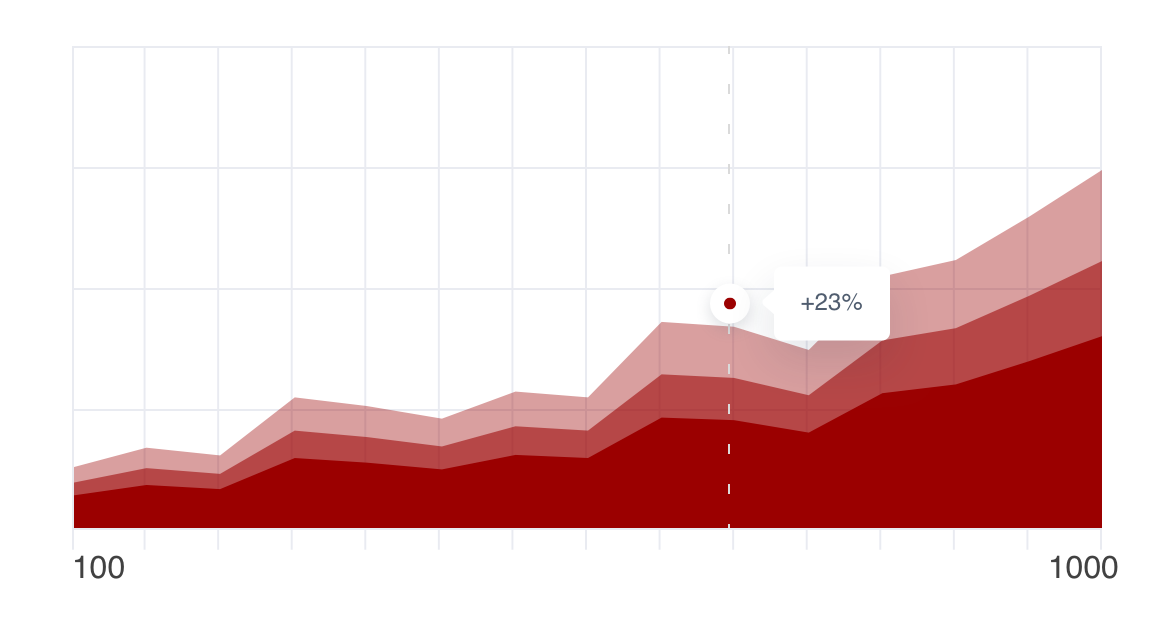
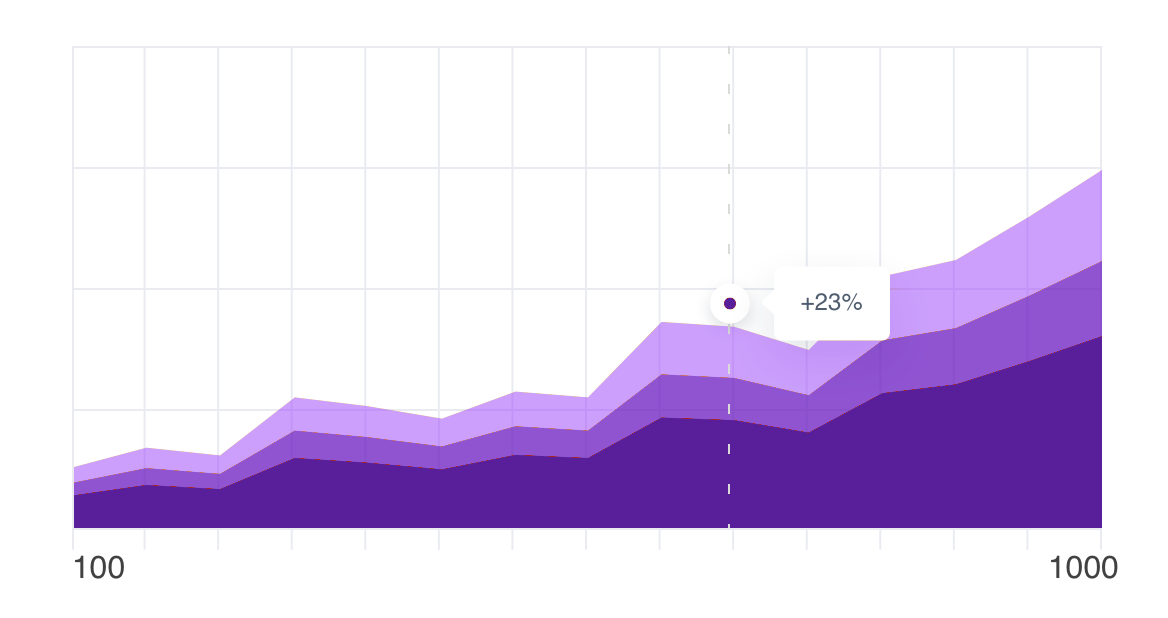
update background image

Changed region(s): [[0.0616, 0.2767, 0.9555, 0.8608]]

diff --git a/app/bxfinance-scenario1/src/pages/any-marketing.js b/app/bxfinance-scenario1/src/pages/any-marketing.js
@@ -241,27 +241,9 @@ class AnyMarketing extends React.Component {
           {/* DESKTOP NAV */}
           <Navbar color="light" light expand="md" className="navbar-desktop">
             <Container>
-              <Link to="/" className="navbar-brand"><img src={process.env.PUBLIC_URL + "/images/any-marketing-logo.png"} alt={data.brand} /></Link>
+              {/* <Link to="/" className="navbar-brand"></Link> */}
+              <img className={'logoMarketing'} style={{ height: '30px !important' }} src={process.env.PUBLIC_URL + "/images/logo.png"} />
               <NavbarToggler onClick={this.toggle.bind(this)} />
-              <Collapse isOpen={this.state.isOpen} navbar>
-                <Nav className="justify-content-end ml-auto navbar-nav-utility" navbar>
-                  <NavItem>
-                    <NavLink><img src={process.env.PUBLIC_URL + "/images/icons/search.svg"} alt={data.menus.utility.search} /></NavLink>
-                  </NavItem>
-                  <NavItem>
-                    <NavLink><img src={process.env.PUBLIC_URL + "/images/icons/map-marker.svg"} alt={data.menus.utility.locations} /></NavLink>
-                  </NavItem>
-                  <NavItem>
-                    <NavLink><img src={process.env.PUBLIC_URL + "/images/icons/support.svg"} alt={data.menus.utility.support} /></NavLink>
-                  </NavItem>
-                  <NavItem className="logout">
-                    {!this.state.loggedOut && 
-                      <a onClick={this.signOut.bind(this)} className="nav-link"><img src={process.env.PUBLIC_URL + "/images/icons/user.svg"} alt={data.menus.utility.logout} className="mr-1" /> {data.menus.utility.logout}</a>}
-                    {this.state.loggedOut && 
-                      <a onClick={this.signOut.bind(this)} className="nav-link"><img src={process.env.PUBLIC_URL + "/images/icons/user.svg"} alt={data.menus.utility.login} className="mr-1" /> {data.menus.utility.logout}</a>}
-                  </NavItem>
-                </Nav>
-              </Collapse>
             </Container>
           </Navbar>
           <Navbar color="light" light expand="md" className="navbar-desktop">
@@ -276,43 +258,6 @@ class AnyMarketing extends React.Component {
                 })}
               </Nav>
             </Container>
-          </Navbar>
-          {/* MOBILE NAV */}
-          <Navbar color="light" light expand="md" className="navbar-mobile">
-            <div className="mobilenav-menu">
-              <NavbarToggler onClick={this.toggle.bind(this)} />
-            </div>
-            <div className="mobilenav-brand">
-              <Link to="/" className="navbar-brand"><img src={process.env.PUBLIC_URL + "/images/any-marketing-logo.png"} alt={data.brand} /></Link>
-            </div>
-            <div className="mobilenav-login">
-              <Link to="/" className="nav-link logout">Sign Out</Link>
-            </div>
-            <Collapse isOpen={this.state.isOpen} navbar>
-              <Nav className="navbar-nav-main navbar-light bg-light" navbar>
-                {data.menus.primary.map((item, i) => {
-                  return (
-                    <NavItem key={i}>
-                      <NavLink to={item.url} activeClassName="active" exact tag={RRNavLink}>{item.title}</NavLink>
-                    </NavItem>
-                  );
-                })}
-              </Nav>
-              <Nav className="navbar-nav-utility" navbar>
-                <NavItem>
-                  <NavLink><img src={process.env.PUBLIC_URL + "/images/icons/search.svg"} alt={data.menus.utility.search} className="mr-1" /> {data.menus.utility.search}</NavLink>
-                </NavItem>
-                <NavItem>
-                  <NavLink><img src={process.env.PUBLIC_URL + "/images/icons/map-marker.svg"} alt={data.menus.utility.locations} className="mr-1" /> {data.menus.utility.locations}</NavLink>
-                </NavItem>
-                <NavItem>
-                  <NavLink><img src={process.env.PUBLIC_URL + "/images/icons/support.svg"} alt={data.menus.utility.support} className="mr-1" /> {data.menus.utility.support}</NavLink>
-                </NavItem>
-                <NavItem>
-                  <NavLink><img src={process.env.PUBLIC_URL + "/images/icons/user.svg"} alt={data.menus.utility.logout} className="mr-1" /> {data.menus.utility.logout}</NavLink>
-                </NavItem>
-              </Nav>
-            </Collapse>
           </Navbar>
         </section>
         <section className="welcome-bar">

diff --git a/app/bxfinance-scenario1/src/components/AccountsSubnav/AccountsSubnav.js b/app/bxfinance-scenario1/src/components/AccountsSubnav/AccountsSubnav.js
@@ -1,7 +1,7 @@
 // Packages
 import React, { useState } from 'react';
 import { Collapse, Button  } from 'reactstrap';
-import { Link } from 'react-router-dom'
+import { Link, useLocation } from 'react-router-dom'
 
 // Styles
 import "./AccountsSubnav.scss";
@@ -9,10 +9,11 @@ import "./AccountsSubnav.scss";
 const AccountsSubnav = (props) => {
   const [isOpen, setIsOpen] = useState(props.subnav.open);
   const toggle = () => setIsOpen(!isOpen);
-
+  console.log(props)
+  const location = useLocation();
   return (
     <div className="accounts-subnav">
-      <Link to={props.subnav.href} onClick={toggle}>{props.subnav.title}</Link>
+      <Link to={props.subnav.title === 'Profile & Settings' ? '/communication-preferences': location.pathname} onClick={toggle}>{props.subnav.title}</Link>
       { props.subnav.links && 
         <Collapse isOpen={isOpen}>
           <hr />
@@ -23,9 +24,10 @@ const AccountsSubnav = (props) => {
                   return (
                     /* PING INTEGRATION: Added logic to render Link as anchor to PF profile mgmt when it's Personal Details */
                       props.subnav.links[key].title == "Personal Details" ? 
-                      <li key={key}><a href={props.pingendpoints.pingfederate.profileMgmtURI} className={props.subnav.links[key].active ? "active" : ""}>{props.subnav.links[key].title}</a></li>
+                      <li key={key}><a href="/pf/idprofile.ping?LocalIdentityProfileID=defaultIdentityProfile"  className={props.subnav.links[key].active ? "active" : ""}>{props.subnav.links[key].title}</a></li>
                       :
-                      <li key={key}><Link to={props.subnav.links[key].href} className={props.subnav.links[key].active ? "active" : ""}>{props.subnav.links[key].title}</Link></li>
+                      <li key={key}><Link to={'/communication-preferences'} className={props.subnav.links[key].active ? "active" : ""}>{props.subnav.links[key].title}</Link></li>
+                      // <li onClick={()=>console.log('hi how are ya')} key={key}className={props.subnav.links[key].active ? "active" : ""}>{props.subnav.links[key].title}</li>
                   );
                 })      
               }

diff --git a/app/bxfinance-scenario1/src/components/NavbarMain/NavbarMain.js b/app/bxfinance-scenario1/src/components/NavbarMain/NavbarMain.js
@@ -553,7 +553,8 @@ class NavbarMain extends React.Component {
                     root: 'navBarMenuItem'
                 }}
             >
-              <Link to="/pf/idprofile.ping?LocalIdentityProfileID=defaultIdentityProfile" >Profile</Link>
+              {/* <Link to="/pf/idprofile.ping?LocalIdentityProfileID=defaultIdentityProfile" replace >Profile</Link> */}
+              <a href="/pf/idprofile.ping?LocalIdentityProfileID=defaultIdentityProfile" >Profile</a>
             </MenuItem>
             <MenuItem
                 classes={{
@@ -633,11 +634,11 @@ class NavbarMain extends React.Component {
                 Log In
             </Button> */}
           <Link href="#" className="submitButtonDropDown submitButtonLabel" onClick={this.triggerModalLogin.bind(this)}> {data.menus.utility.login}</Link>
-            <p
+            {/* <p
                 className={'dropDownClickableText'}
             >
                 Forgot Password/User Id?
-            </p>
+            </p> */}
             <Divider/>
             <p
                 className={'dropDownText'}

diff --git a/pingfederate/instance/server/default/conf/template/assets/css/styles.css b/pingfederate/instance/server/default/conf/template/assets/css/styles.css
@@ -7,10 +7,10 @@
 /* Variables */
 
 :root {
-  --primary: #66c5b1;
-  --secondary: #456059;
-  --dark: #1f0f11;
-  --info: #66b0c0;
+  --primary: #ff6200;
+  --secondary: #4d148c;
+  --dark: #000000;
+  --info: #007ab7;
 }
 
 
@@ -29,8 +29,8 @@ body {
   align-items: center;
   padding-top: 40px;
   padding-bottom: 40px;
-  background-image: url('/app/images/home-hero-background.jpg');
-  background: url("../images/background.jpg") center center no-repeat var(--secondary);
+  background-color:#FAFAFA;
+  /* background: url("../images/background.jpg") center center no-repeat var(--secondary); */
   background-size: cover;
   font-family: "Rubik";
 }

diff --git a/app/bxfinance-scenario1/src/styles/pages/any-marketing.scss b/app/bxfinance-scenario1/src/styles/pages/any-marketing.scss
@@ -420,3 +420,8 @@ $theme-colors: (
     opacity: 0.8;
   }
 }
+
+.logoMarketing{
+  height: 30px !important;
+  max-height: 30px !important;
+}
